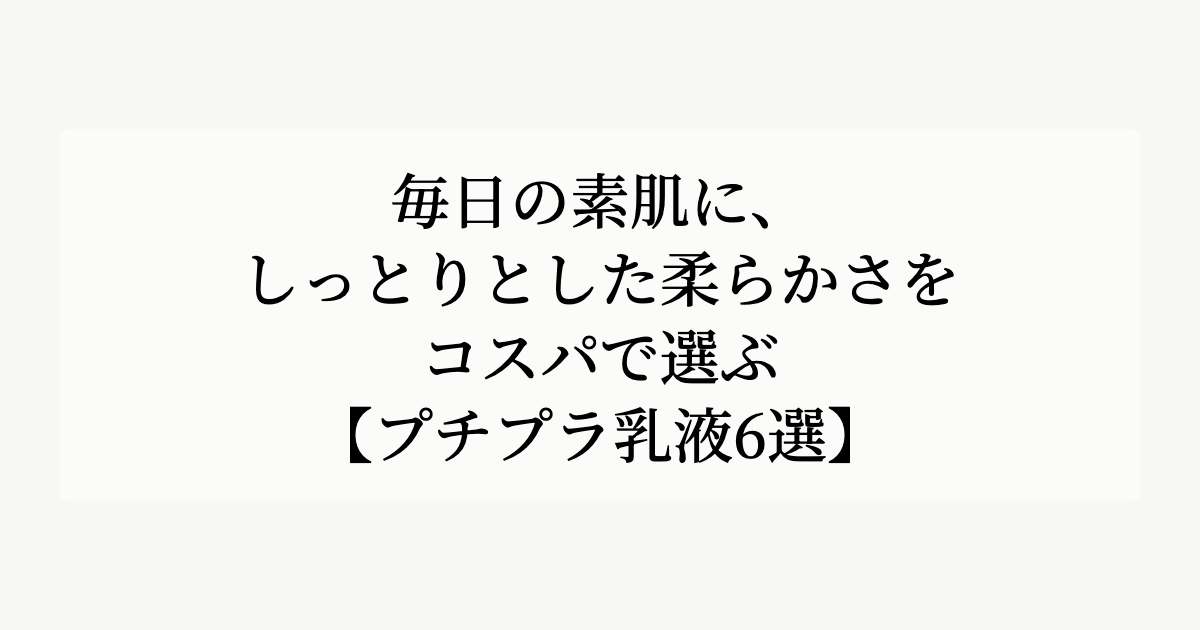
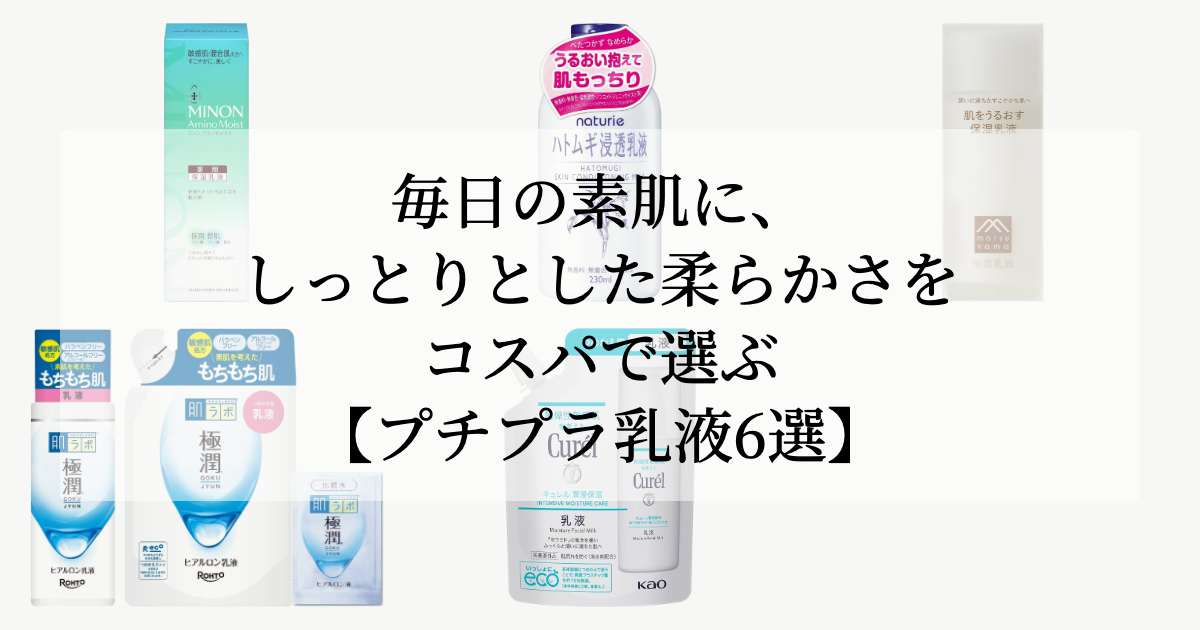
fix: embed product images in eyecatches and resolve category search duplicate bug

diff --git a/public/eyecatch/20260728-emulsion.html b/public/eyecatch/20260728-emulsion.html
@@ -9,11 +9,11 @@ body { font-family: 'Noto Serif JP', serif; display: flex; align-items: center; 
 .to { position: absolute; inset: 0; display: flex; align-items: center; justify-content: center; z-index: 100; pointer-events: none; }
 .ti { font-size: 60px; font-weight: 500; color: #000; line-height: 1.3; text-align: center; width: auto; max-width: 90%; padding: 30px 45px; background-color: rgba(255, 255, 255, 0.5); border-radius: 8px; word-break: keep-all; }
 </style></head><body>
-<div class="g"><div class="pw"></div>
-<div class="pw"></div>
-<div class="pw"></div>
-<div class="pw"></div>
-<div class="pw"></div>
+<div class="g"><div class="pw"><img src="https://m.media-amazon.com/images/I/719IMlW0bOL._AC_SL1500_.jpg" class="pi" alt="" loading="eager" /></div>
+<div class="pw"><img src="https://m.media-amazon.com/images/I/61dtJU6jiXL._AC_SL1500_.jpg" class="pi" alt="" loading="eager" /></div>
+<div class="pw"><img src="https://m.media-amazon.com/images/I/41Z+9qvc0lL._AC_SL1500_.jpg" class="pi" alt="" loading="eager" /></div>
+<div class="pw"><img src="https://m.media-amazon.com/images/I/71J2FxdWi1L._AC_SL1500_.jpg" class="pi" alt="" loading="eager" /></div>
+<div class="pw"><img src="https://m.media-amazon.com/images/I/711lukRw6WL._AC_SL1500_.jpg" class="pi" alt="" loading="eager" /></div>
 <div class="pw"></div>
 </div>
 <div class="to"><h1 class="ti">毎日の素肌に、しっとりとした柔らかさを<br />コスパで選ぶ<br />【プチプラ乳液6選】</h1></div>

diff --git a/public/eyecatch/20260728-emulsion-pin.html b/public/eyecatch/20260728-emulsion-pin.html
@@ -114,10 +114,10 @@ body {
     <h1 class="title">毎日の素肌に、しっとりとした柔らかさを<br />コスパで選ぶ<br />【プチプラ乳液6選】</h1>
   </div>
   <div class="images-grid">
-    <div class="img-wrapper" style="box-shadow: none; background: transparent;"></div>
-<div class="img-wrapper" style="box-shadow: none; background: transparent;"></div>
-<div class="img-wrapper" style="box-shadow: none; background: transparent;"></div>
-<div class="img-wrapper" style="box-shadow: none; background: transparent;"></div>
+    <div class="img-wrapper"><img src="https://m.media-amazon.com/images/I/719IMlW0bOL._AC_SL1500_.jpg" alt="" loading="eager" /></div>
+<div class="img-wrapper"><img src="https://m.media-amazon.com/images/I/61dtJU6jiXL._AC_SL1500_.jpg" alt="" loading="eager" /></div>
+<div class="img-wrapper"><img src="https://m.media-amazon.com/images/I/41Z+9qvc0lL._AC_SL1500_.jpg" alt="" loading="eager" /></div>
+<div class="img-wrapper"><img src="https://m.media-amazon.com/images/I/71J2FxdWi1L._AC_SL1500_.jpg" alt="" loading="eager" /></div>
 
   </div>
   <div class="footer">

diff --git a/scripts/publish_article.py b/scripts/publish_article.py
@@ -946,10 +946,10 @@ def run_publish(article_title: str, category: str = None, slug: str = None, publ
     
     image_urls = []
     for p in data.get("products", []):
-        p_name_clean = re.sub(r'[\s\u3000]', '', p['name']).lower()
+        p_clean = clean_brand_and_noise(p['name'])
         for x in products:
-            x_name_clean = re.sub(r'[\s\u3000]', '', x['name']).lower()
-            if x_name_clean in p_name_clean or p_name_clean in x_name_clean:
+            x_clean = clean_brand_and_noise(x['name'])
+            if p_clean in x_clean or x_clean in p_clean or (len(p_clean) >= 4 and p_clean[:4] in x_clean) or (len(x_clean) >= 4 and x_clean[:4] in p_clean):
                 if x.get('image_url'):
                     image_urls.append(x['image_url'])
                 break
